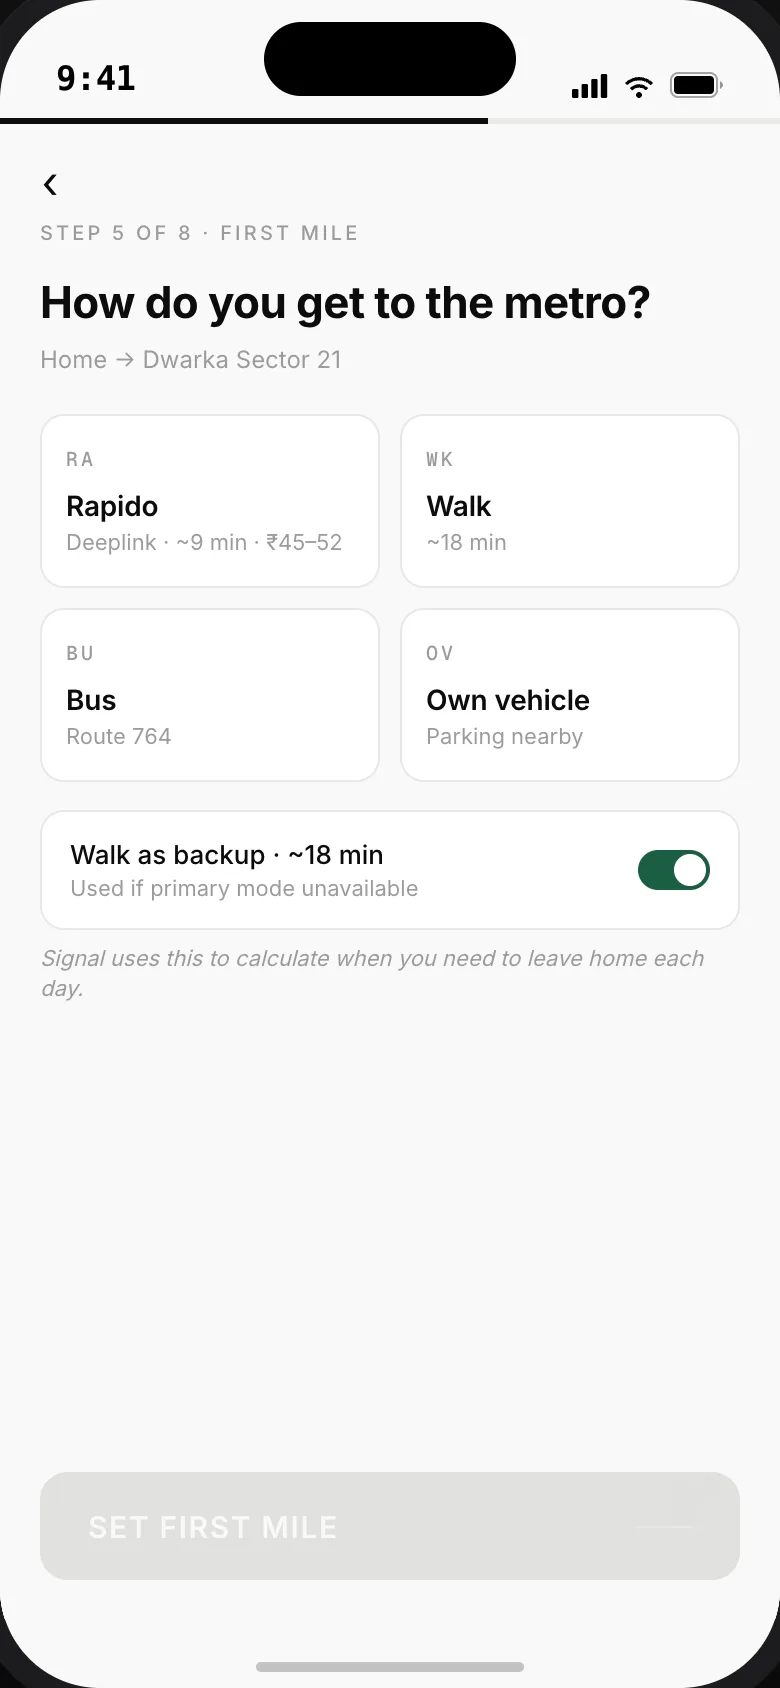
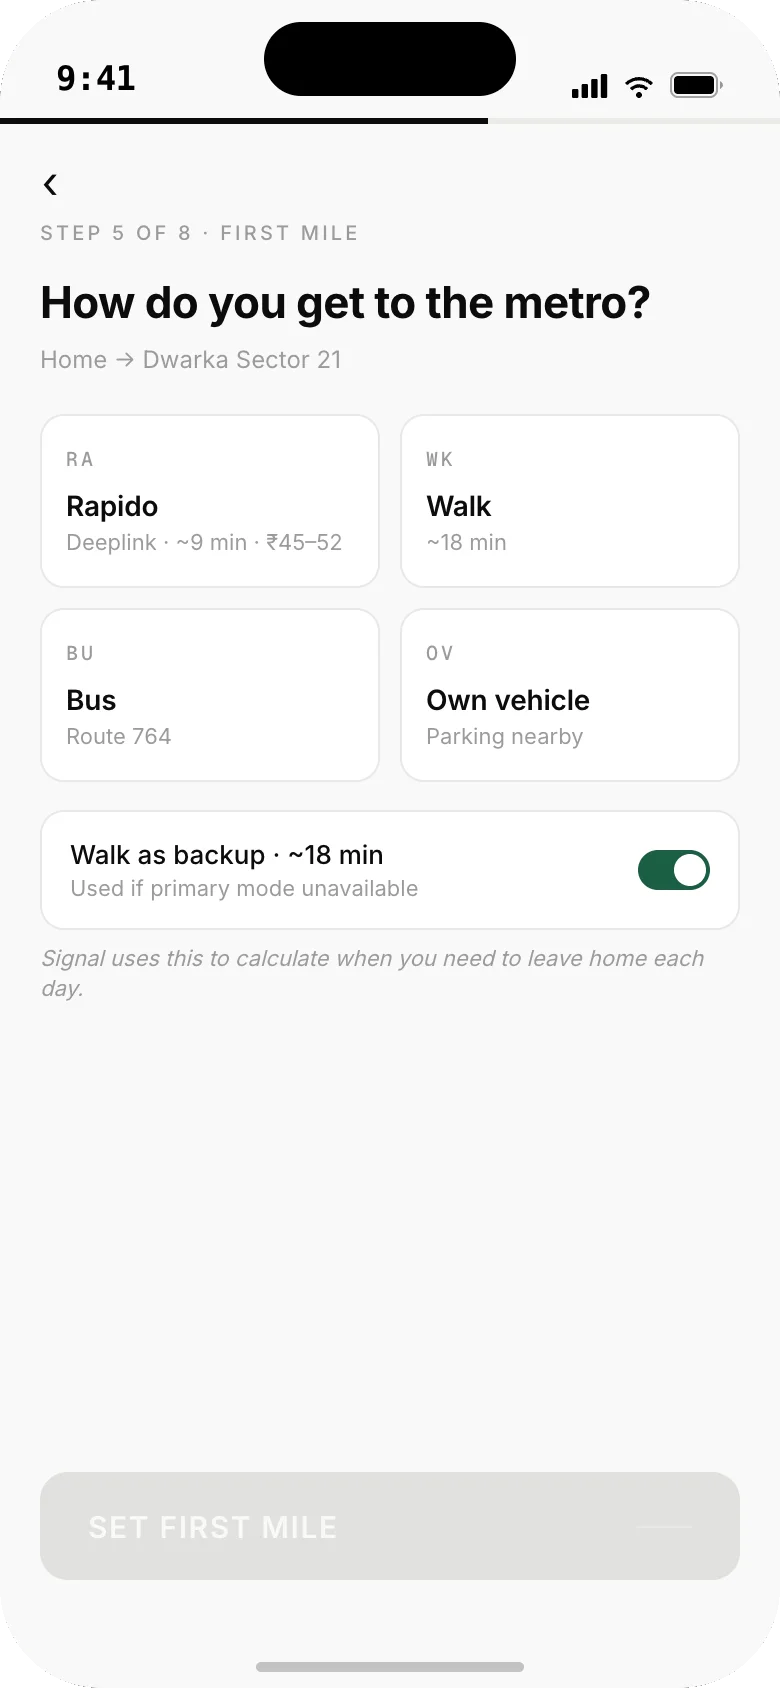
Show only Signal screens that fit whole
Recaptured from the prototype at its own phone size, clipped to the screen.
The live-journey screens scroll past the tab bar and the departure screen's
Dismiss runs off its edge, so they are left out of the gallery and the cover.

diff --git a/app/signal/page.js b/app/signal/page.js
@@ -68,13 +68,16 @@ const COMPETITORS = {
   ],
 }
 
+// Only screens that fit whole on one phone. The live-journey screens scroll
+// past the tab bar and the departure screen's Dismiss runs off its edge, so a
+// still of either shows a cut-off button rather than the design.
 const SCREENS = [
-  ['/signal/screens/onboard-confidence.webp', 'Onboarding opens on the number the product lives by.'],
-  ['/signal/screens/onboard-pattern.webp', 'Pattern intelligence, not live tracking — 90 days of corridor data.'],
-  ['/signal/screens/first-mile.webp', 'Setup asks how you reach the metro, with a walking fallback.'],
-  ['/signal/screens/departure.webp', 'The departure signal: leave by 8:28, and why.'],
-  ['/signal/screens/live-first-mile.webp', 'Live, first mile: the Rapido leg, and which coach to board.'],
-  ['/signal/screens/live-metro.webp', 'Live, on the train: on track for a 9:29 arrival.'],
+  ['/signal/screens/confidence.webp', 'Onboarding opens on the number the product lives by.'],
+  ['/signal/screens/pattern.webp', 'Pattern intelligence, not live tracking — 90 days of corridor data.'],
+  ['/signal/screens/lockscreen.webp', 'Glanceable on the lock screen: leave by 8:28, with Rapido one tap away.'],
+  ['/signal/screens/arrival-time.webp', 'Setup works backwards from when you need to be at your desk.'],
+  ['/signal/screens/first-mile.webp', 'How you reach the metro, with walking as the fallback.'],
+  ['/signal/screens/ready.webp', 'Your signal is ready — and honest that confidence starts low.'],
 ]
 
 const STATES = [
@@ -151,7 +154,7 @@ export default function Signal() {
       <motion.figure {...rise(0.1)} className="track-full mt-12">
         <img
           src="/research/signal.jpg"
-          alt="Three Signal screens: a lock-screen departure card, the leave-by-8:28 verdict, and a live Yellow Line journey"
+          alt="Three Signal screens: 74% likely on time, the first signal set for 8:28, and the lock-screen departure card"
           width={1600}
           height={900}
           className="block h-auto w-full rounded-xl"

diff --git a/app/signal/visuals.jsx b/app/signal/visuals.jsx
@@ -233,23 +233,25 @@ export function Matrix({ columns, rows }) {
 
 /**
  * The prototype, as screens. A scroll strip on a phone, a row on desktop.
- * The captures already include the device status bar, so the frame is only a
- * rounded edge and a hairline.
+ * The captures include the status bar and their own rounded corners.
  */
 export function Screens({ items }) {
   return (
     <div className="track-full -mb-2 flex snap-x snap-mandatory gap-4 overflow-x-auto pb-4 lg:grid lg:overflow-visible" style={{ gridTemplateColumns: `repeat(${items.length}, minmax(0, 1fr))` }}>
       {items.map(([src, caption]) => (
         <figure key={src} className="w-[62vw] max-w-[15rem] shrink-0 snap-start lg:w-auto lg:max-w-none">
-          <img
-            src={src}
-            alt={caption}
-            width={780}
-            height={1688}
-            loading="lazy"
-            className="block h-auto w-full rounded-[1.4rem]"
-            style={{ border: '1px solid var(--rule)' }}
-          />
+          {/* The same thin bezel the cover uses, so the screens read as
+              phones rather than as cards with rounded corners. */}
+          <div className="rounded-[1.9rem] p-[5px]" style={{ background: '#161616' }}>
+            <img
+              src={src}
+              alt={caption}
+              width={780}
+              height={1688}
+              loading="lazy"
+              className="block h-auto w-full"
+            />
+          </div>
           <figcaption className="text-faint mt-2" style={{ fontSize: '0.85rem', lineHeight: 1.4 }}>{caption}</figcaption>
         </figure>
       ))}

diff --git a/app/page.js b/app/page.js
@@ -59,7 +59,7 @@ const RESEARCH = [
     href: '/signal',
     site: '7 interviews · 5 tests',
     shot: '/research/signal.jpg',
-    alt: 'Three Signal screens: a lock-screen departure card, the leave-by-8:28 verdict, and a live Yellow Line journey',
+    alt: 'Three Signal screens: 74% likely on time, the first signal set for 8:28, and the lock-screen departure card',
     what: 'A Delhi Metro companion that tells you when to leave, before you need to. Concept with a working prototype.',
     tags: ['Research', 'Interaction', 'Prototype', 'Film'],
   },
